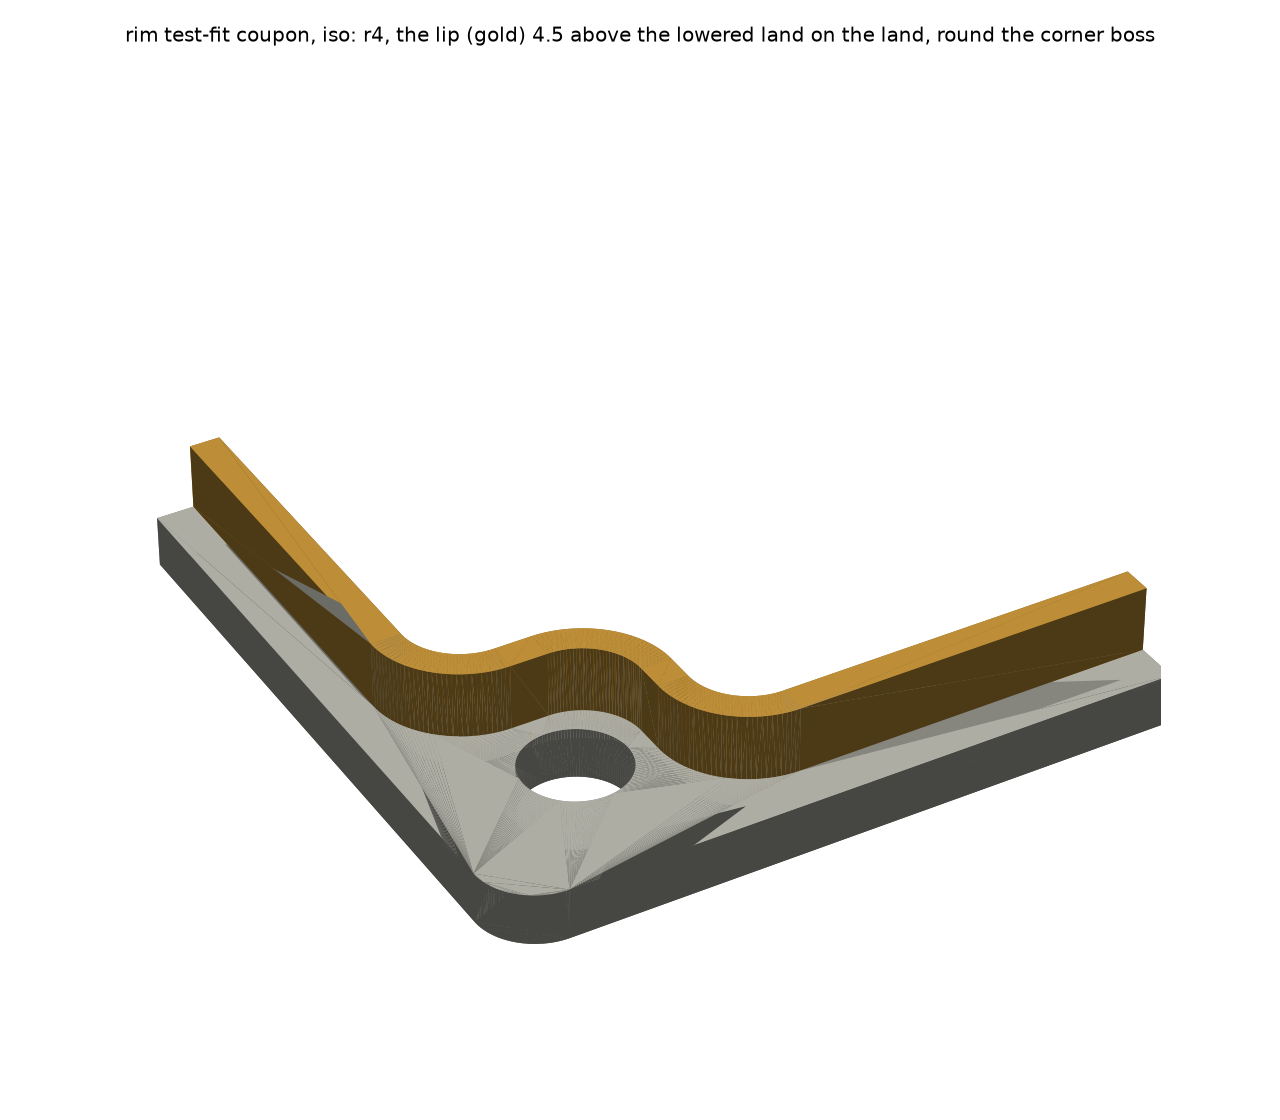
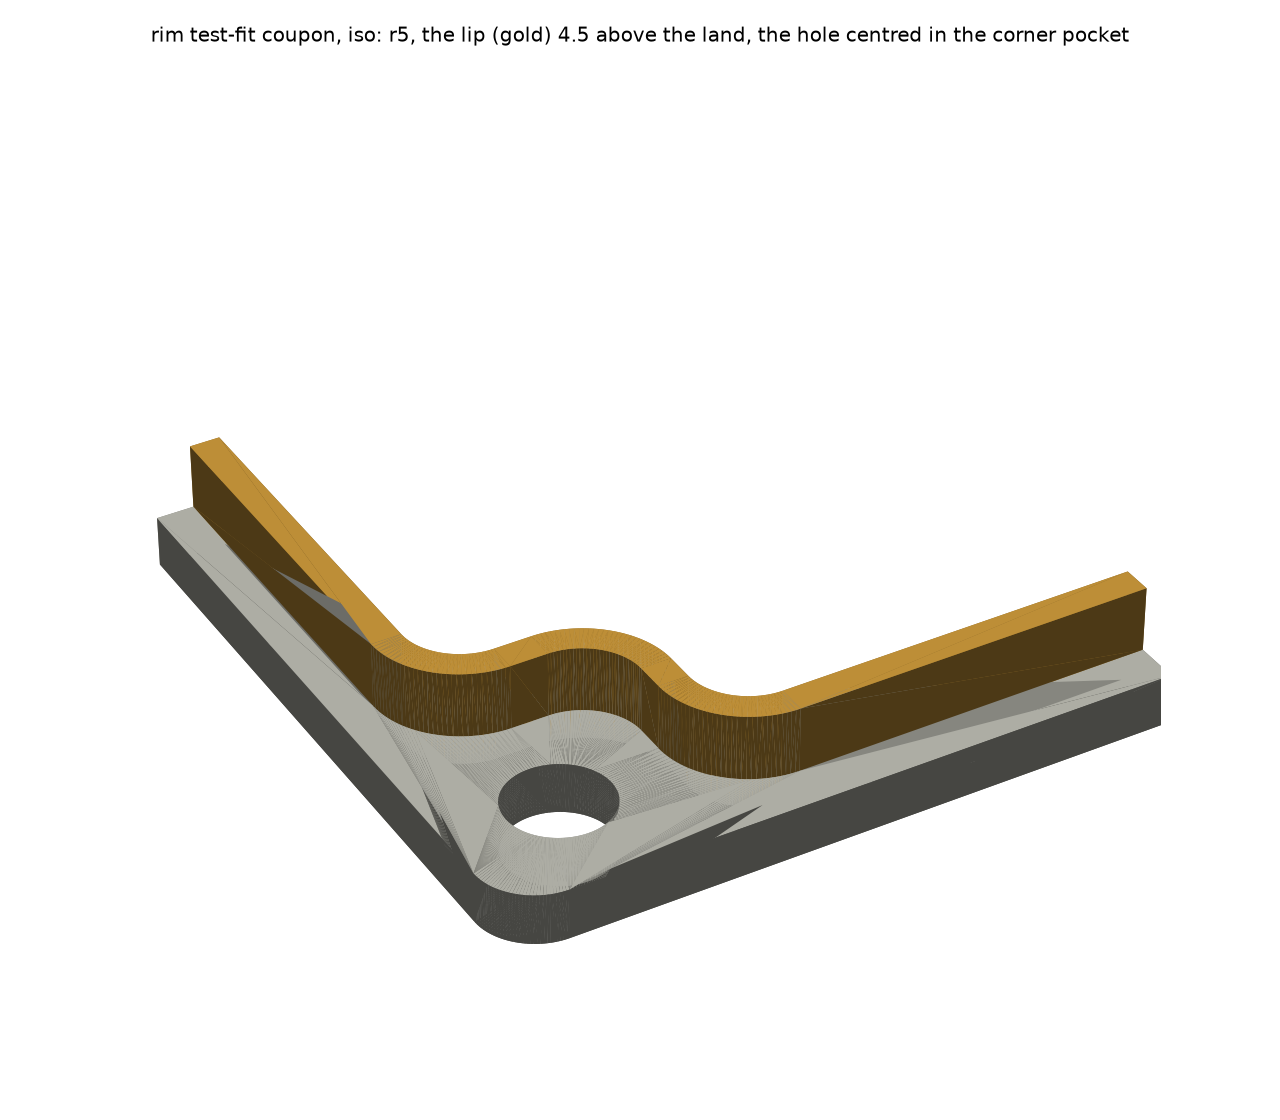
hardware: TX rim test-fit coupon r5, the hole centred in the corner pocket
From Clint's r4 fit. The 7 mm hole moves from 10/10 to 7.5/7.5, centred in the square
between the outside edges and the S's hole-side lip face at 15. That leaves 4.0 mm to the
lip, 4.0 to the edges and 5.45 to the R4 corner. The full base's lid screws (l2_screw_pos)
move to match. The insert posts are 10.3 square, with 4.7 mm of PETG from the insert to the
outside. The top view ghosts r4's hole, and the stale marker-line note is gone. The gate
stays closed.

diff --git a/hardware/tx-stack-r1/cage/coupon_views.py b/hardware/tx-stack-r1/cage/coupon_views.py
@@ -37,12 +37,12 @@ def top(solid):
         ax.plot(*zip(*ln), color="#555", lw=1.2)
     for ln in outline(solid, land_h + cage.TONGUE_H / 2):
         ax.plot(*zip(*ln), color="#b07a10", lw=1.6)
-    # r3's lip, ghosted under the new one; the corner's diagonal through the screw
-    r1 = dict(cage.COUPON_GHOST)
-    old = cage.seal_region(cage.TONGUE_W / 2, 0, 1, **dict(r1)).intersect(
-        cq.Workplane("XY").rect(cx, cz, centered=False).extrude(1)).cut(cage.seal_region(-cage.TONGUE_W / 2, -1, 3, **dict(r1)))
-    for ln in outline(old, 0.5):
-        ax.plot(*zip(*ln), color="#aaa", lw=1.0, ls="--")
+    # r4's hole, ghosted (its lip is unchanged); the corner's diagonal through the screw
+    import math
+    gx, gz = cage.COUPON_GHOST_HOLE
+    rr = S.val("coupon_bore") / 2
+    ax.plot([gx + rr * math.cos(k / 60 * 2 * math.pi) for k in range(61)],
+            [gz + rr * math.sin(k / 60 * 2 * math.pi) for k in range(61)], color="#aaa", lw=1.0, ls="--")
     ax.plot([0, min(cx, cz)], [0, min(cx, cz)], color="#c03030", lw=0.8, ls="-.")
     ax.text(min(cx, cz) - 8, min(cx, cz) - 3, "diagonal through\nthe screw", color="#c03030", fontsize=8)
     cs, cl, w = cage.TONGUE_CS, cage.TONGUE_CL, cage.TONGUE_W
@@ -83,16 +83,16 @@ def top(solid):
     ax.annotate("", (hx, 0), (hx, hz), **kw)
     ax.text(hx + 0.6, hz / 2 - 2.5, f"{hz:g}", va="center", **t)
     ax.text(hx + d / 2 + 0.5, hz + d / 2, f"\u00d8{d:g}", **t)
-    ax.text(0.8, -4.4, f"outside corner R {cage.CORNER_R:g} [TBD-MEASURE]; grey dashed: r3's lip", **t)
+    ax.text(0.8, -4.4, f"outside corner R {cage.CORNER_R:g} [TBD-MEASURE]; grey dashed: r4's hole", **t)
     ax.set_aspect("equal")
     ax.set_xlim(-6, cx + 9)
     ax.set_ylim(-6, cz + 4)
     ax.set_xlabel("mm from the lid's outside edge (short side)")
     ax.set_ylabel("mm from the lid's outside edge (long side)")
-    ax.set_title(f"rim test-fit coupon r4, top: {cx:g} x {cz:g} x {ch:g} mm (land {ch - cage.TONGUE_H:g}, lip "
+    ax.set_title(f"rim test-fit coupon r5, top: {cx:g} x {cz:g} x {ch:g} mm (land {ch - cage.TONGUE_H:g}, lip "
                  f"{cage.TONGUE_H:g} above it); hole \u00d8{d:g} at {hx:g}/{hz:g}\nthe S's middle runs at "
-                 f"{cl + run:g} from both edges, all bends R{r:g}, axis-aligned straights; {clr:.1f} mm lip to hole\nCHECK: Clint's marker line on r1 sat closer to the hole than these numbers "
-                 "put the lip", fontsize=9)
+                 f"{cl + run:g} from both edges, all bends R{r:g}\nthe hole centred in the corner pocket: "
+                 f"{clr:.1f} mm to the lip, {hx - d / 2:g} to the edges", fontsize=9)
     ax.grid(alpha=0.2)
     fig.tight_layout()
     fig.savefig(OUT / "rim-coupon-top.png", dpi=160)
@@ -120,7 +120,7 @@ def iso(solid):
     ax.set_box_aspect((cage.COUPON[0], cage.COUPON[1], 12))
     ax.view_init(elev=35, azim=-120)
     ax.set_axis_off()
-    ax.set_title("rim test-fit coupon, iso: r4, the lip (gold) 4.5 above the lowered land on the land, round the corner boss", fontsize=9)
+    ax.set_title("rim test-fit coupon, iso: r5, the lip (gold) 4.5 above the land, the hole centred in the corner pocket", fontsize=9)
     fig.tight_layout()
     fig.savefig(OUT / "rim-coupon-iso.png", dpi=160)
 

diff --git a/hardware/tx-stack-r1/sources.py b/hardware/tx-stack-r1/sources.py
@@ -135,7 +135,7 @@ D = {
     "m4_washer": ((12.0, 1.0), "M4 large (fender) washer, stainless: OD x thickness, for option b, over the lid's 8 mm hole", "ISO 7093-1 size 4 (d2 12, h 1), from the standard's table as remembered: check the ones bought", "TBD"),
     "m4_screw": ((8.0, 3.1, 20.0), "M4 stainless pan-head screw: head diameter, head height, length (option b)", "ISO 7045 M4 head (dk 8, k 3.1), from the standard's table as remembered; length a layout choice: through the lid boss (L1 pending) into the 8 mm insert", "TBD"),
     "lid_pocket": (14.0, "the lid's square corner pocket, inside width (the washer must seat in it); the hole 8 mm through its floor", "pending: Clint's photo-8526 shows a square pocket with a round counterbored hole; width placeholder", "TBD"),
-    "l2_screw_pos": ((10.0, 10.0), "L2: lid screw centre from the two outside edges (long side, short side)", "Clint, 2026-11-10 (lid-measure sheet, via the coordinator)", "sourced"),
+    "l2_screw_pos": ((7.5, 7.5), "L2: lid screw centre from the two outside edges (long side, short side)", "Clint's coupon r4 fit, 2026-11-10 (via the coordinator): the hole is centred in the corner pocket, the square between the outside edges and the S's hole-side lip face at 15 (his sheet said 10)", "sourced"),
     "l4_oring_proud": (-2.0, "L4: how far the O-ring sits above (+) or below (-) the channel walls", "Clint, 2026-11-10 (lid-measure sheet, via the coordinator): inset about 2 mm below the walls", "sourced"),
     "l5_lid_out": ((175.0, 130.0, 6.0), "L5: lid outside length x width, corner radius (the base matches it; the radius in use is corner_r_out)", "length: Clint, 2026-11-10 (via the coordinator), re-measured 6-14/16 in = 174.6, agreeing with Adafruit's 175 (the earlier 6-3/4 was a misread); width about 130 by Clint's tape (Adafruit 128.5); corner radius a placeholder", "sourced"),
     "base_905": ((175.0, 131.0), "the original #905 base's outside length x width (wider than the lid)", "Adafruit #905 drawing, via the coordinator: base 131 wide against the lid's 128.5", "sourced"),

diff --git a/hardware/tx-stack-r1/cage/cage.py b/hardware/tx-stack-r1/cage/cage.py
@@ -321,9 +321,9 @@ def coax(arm):
     return pe, yb, zb, ax
 
 
-COUPON = (45.0, 45.0, 8.0)          # the test-fit coupon (r4): one rim corner, outside footprint x height; at least
+COUPON = (45.0, 45.0, 8.0)          # the test-fit coupon (r5): one rim corner, outside footprint x height; at least
 CORNER_R = S.val("corner_r_out")    #   10 mm of straight lip past each outer bend
-COUPON_GHOST = dict(cs=4.0, cl=3.5, rise=20.0, run=20.0, r=(10.0, 5.0, 10.0))   # r3's lip, ghosted on the drawing
+COUPON_GHOST_HOLE = (10.0, 10.0)    # r4's hole centre, ghosted on the drawing (r4's lip is r5's)
 
 
 def coupon_seal_points(cs=None, cl=None, rise=None, run=None, far=90.0):
@@ -481,8 +481,8 @@ def main():
           f"{SEAM:g}, closed depth {D:g}; a {LAND:g} mm land ({RIM_OUT:g} + {RIM_CH:g} channel + {RIM_IN:g}, Clint) with a "
           f"{TONGUE_W:g} x {TONGUE_H:g} sealing lip {TONGUE_CS:g} in from the outside edge on the short sides, "
           f"{TONGUE_CL:g} on the long (coupon r1 fit), its S {S_RISE:g} x {S_RUN:g} with R {CURVE_R:g} outer and R {CURVE_RI:g} inner bends, into the "
-          f"lid's O-ring channel (about "
-          f"{TONGUE_H + S.val('l4_oring_proud'):g} mm squeeze on an assumed 3 mm round cord set 2 mm down); corner lands {CORNER_Z:g} x {CORNER_X:g}, insert posts "
+          f"lid's O-ring channel (its top "
+          f"where r3 had it, about 1 mm into the O-ring set 2 mm down, an assumed 3 mm round cord; the land 1.5 lower); corner lands {CORNER_Z:g} x {CORNER_X:g}, insert posts "
           f"{POST:g} square, {CORNER_H:g} deep; lid "
           + (f"screws: option (b), M4 stainless, {WASHER_D:g} mm washers over the lid's {LID_HOLE:g} mm holes, into M4 "
              "heat-set inserts at " if SCREW_OPT == "b" else f"screws: option (a), a printed M{THREAD_D:g} thread at ")
